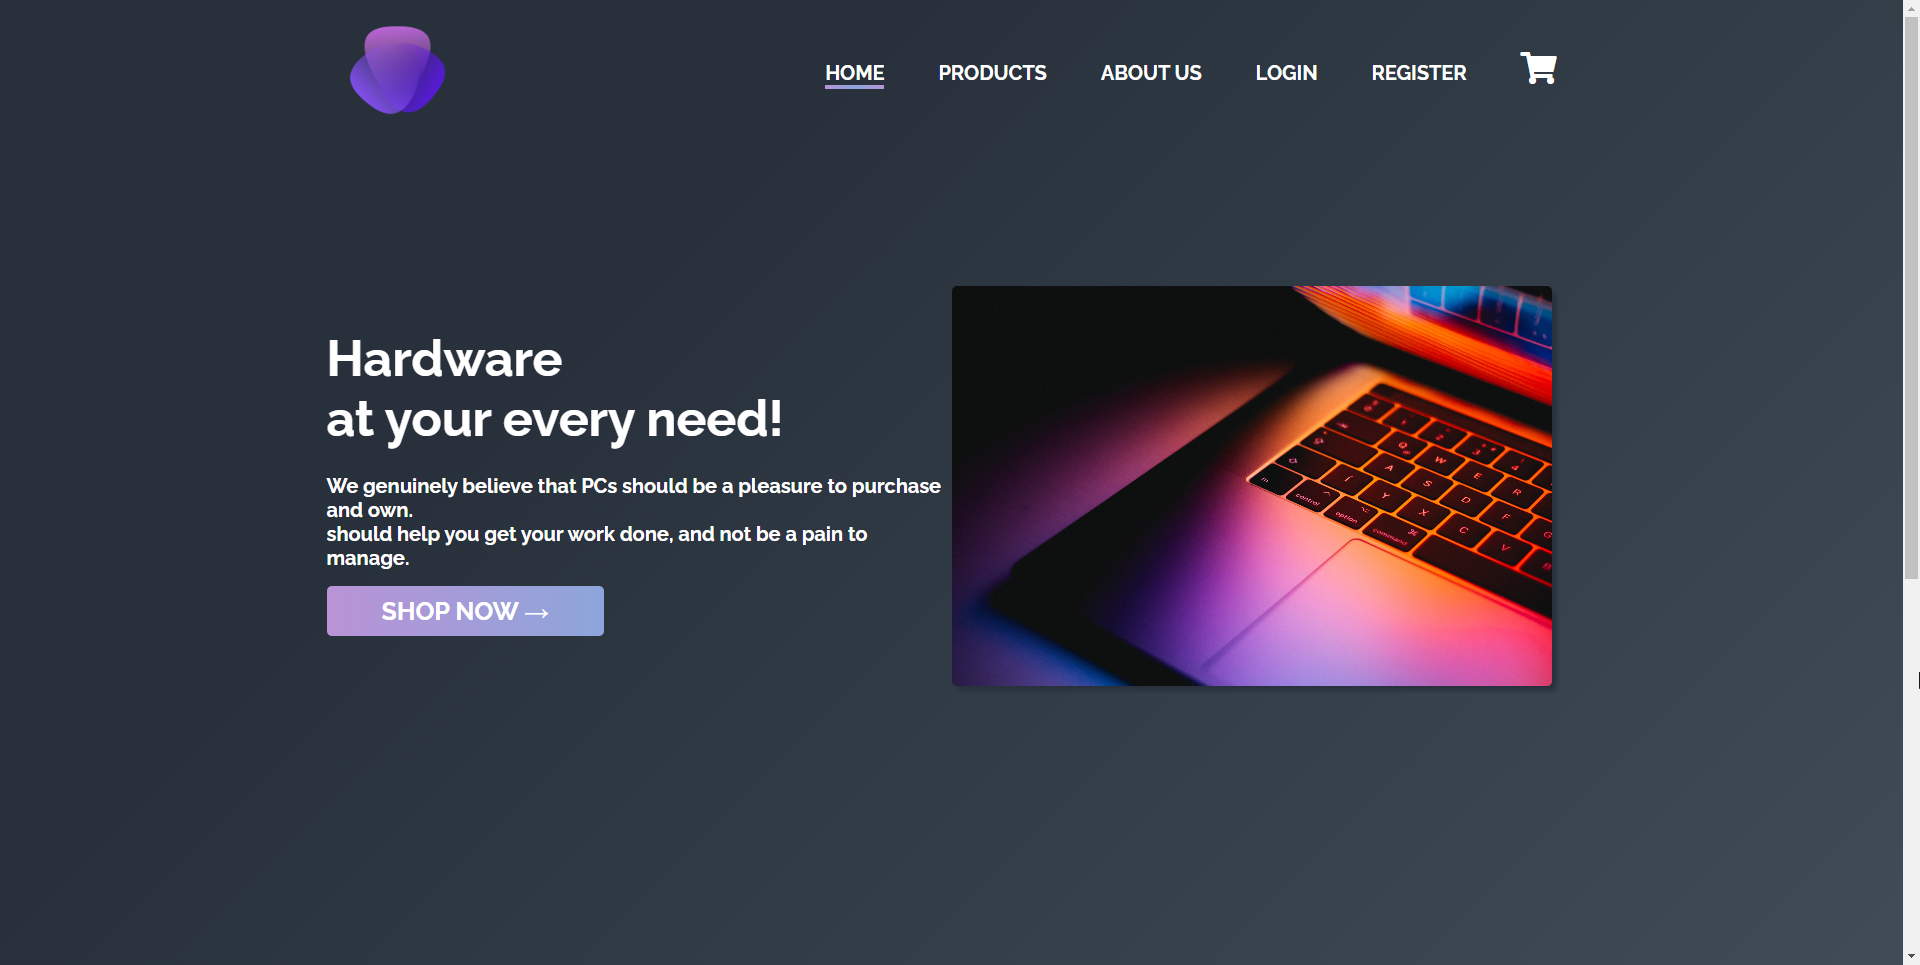
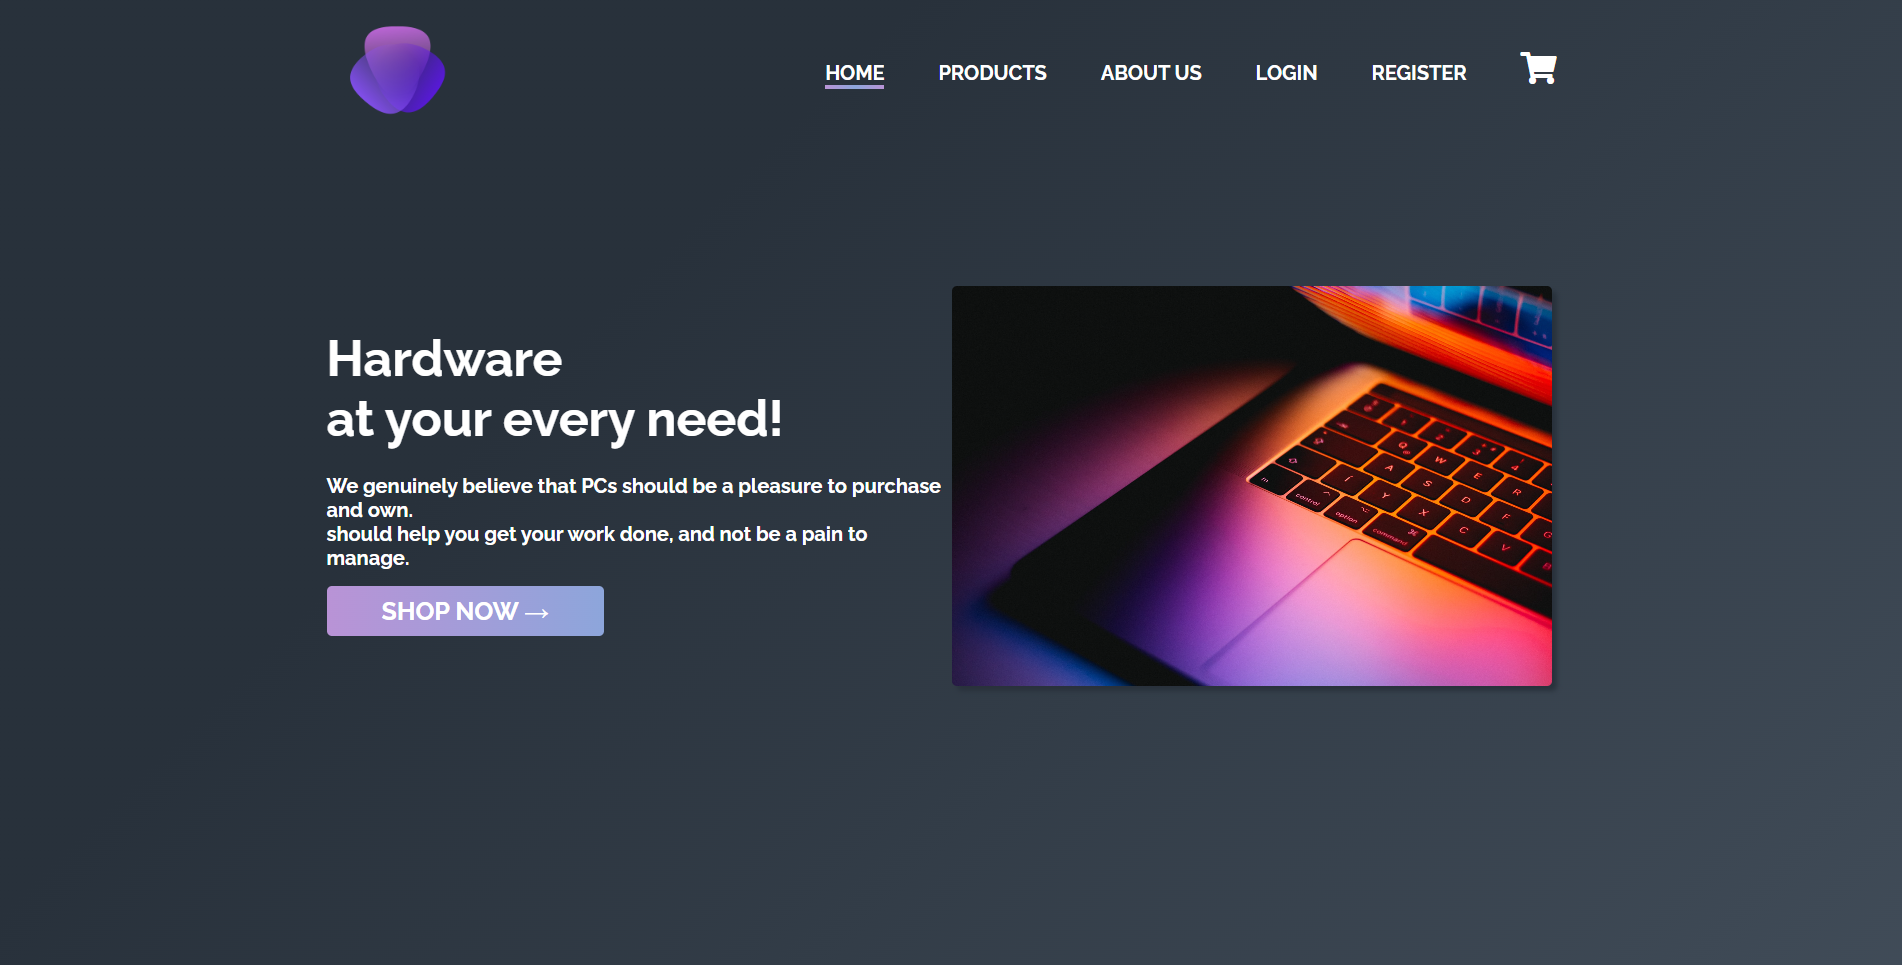
Minor ui tweaks and link fixes

diff --git a/src/App.scss b/src/App.scss
@@ -1,9 +1,9 @@
 @import url("https://fonts.googleapis.com/css?family=Barlow+Condensed:300,400,500,600,700,800,900|Barlow:300,400,500,600,700,800,900&display=swap");
 
 //Root Variables-$
-$primary-bg-color:rgb(92, 84, 112);
+$primary-bg-color:rgba(85, 77, 105);
 $secondary-bg-color:rgb(53, 47, 68);
-$primary-color:rgb(250, 240, 230);
+$primary-color:rgba(250, 240, 230);
 $secondary-color:rgb(185, 180, 199);
 $primary-font-01: "Barlow",sans-serif;
 $primary-font-02: "Barlow Condensed",sans-serif;
@@ -40,7 +40,8 @@ body {
 
 body
 {
-    background:$primary-bg-color;
+    background:rgb(252,252,252);
+    background: linear-gradient(180deg, rgba(252,252,252,1) 5%, rgba(194,181,223,1) 45%, rgba(85,77,105,1) 100%);
     font-family: $primary-font-01;
 }
 
@@ -52,10 +53,28 @@ body
     max-width: 100%;
     background-color: $primary-color;
     background-attachment: fixed;
-    box-shadow: 10px 10px $secondary-color;
+    box-shadow: 10px 10px $primary-bg-color;
     padding: 1em;
     border-radius: 5px;
+    transition: linear 200ms;
 }
+
+.card:hover
+{
+    box-shadow: 0px 10px $primary-bg-color;
+}
+
+@keyframes blink {
+    0% {
+      opacity: 1;
+    }
+    50% {
+      opacity: 0;
+    }
+    100% {
+      opacity: 1;
+    }
+  }
 //Components Based
 
 //NavBar component
@@ -68,25 +87,24 @@ nav
         justify-content: space-between;
         padding: 30px 5%;
         letter-spacing: 2px;
-        opacity: $color-opacity;
 
         .logo
         {
-            background-color: white;
             color: $primary-bg-color;
             padding: 0.5%;
             border-radius: 2px;
             font-size: 1.15em;
-            font-weight: 500;
+            font-weight: bold;
         }
-
+        
         .menu-items
         {
-            color: white;
-
+            color: $primary-bg-color;
+            font-weight: bold;
+            padding: 10px;
             .link
             {
-                margin-right: 30px;
+                margin: 0 10px;
             }
         }
     }
@@ -95,7 +113,7 @@ nav
 //Profile Component
 .profile-container
 {
-    background-image: url("https://live.staticflickr.com/8105/8652674122_a469e97354_h.jpg");
+    background-image: url("https://live.staticflickr.com/1883/30437647608_0737b666de_h.jpg");
     background-position: center;
     background-repeat: no-repeat;
     background-size: cover;
@@ -165,7 +183,6 @@ nav
             font-size: 2rem;
             padding:10px;
         }
-
     }
 }
 
@@ -272,7 +289,8 @@ nav
         display: flex;
         flex-direction: column;
         font-variant: small-caps;
-        width:60em;
+        width:clamp(20em, 60em, 80em);
+        margin: 10px;
 
         & > img
         {
@@ -300,6 +318,7 @@ nav
     }
 }
 
+
 //Footer Componenet
 footer
 {
@@ -310,7 +329,6 @@ footer
     .contact-container
     {
         display: flex;
-        width: 100%;
     }
     input,textarea
     {
@@ -339,15 +357,14 @@ footer
     {
         display: flex;
         width: 100%;
-        justify-content: space-between;
+        justify-content: space-around;
         align-items: flex-end;
 
         .social
         {
             display: flex;
-            justify-content: space-around;
+            justify-content: space-between;
             gap: 1em;
-            padding-right: 2em;
         }
         .copyright
         {
@@ -355,6 +372,12 @@ footer
         }
     }
 
+}
+@media only screen and (max-width: 480px) {
+    .contact-container
+    {
+        flex-direction: column;
+    }
 }
 #go-top
 {

diff --git a/src/components/About.tsx b/src/components/About.tsx
@@ -21,13 +21,13 @@ function About() {
                                 <feMergeNode in="shadowMatrixInner1"></feMergeNode></feMerge></filter></defs><g id="Page-1" stroke="none" stroke-width="1" fill="none" fill-rule="evenodd"><g id="Artboard-1" fill="#8B65E4"><path d="M187.785156,200 L180,232 L66,232 L58.2148437,200 L187.785156,200 Z" id="Rectangle-1" filter="url(#filter-1)"></path><path d="M349.760339,49.1234675 L375.905579,277.733833 L199.999999,277.733834 L43.9648432,143.710938 L349.760339,49.1234675 Z" id="Triangle-1" filter="url(#filter-1)"></path>
                                     <path d="M399.8936,96.1889997 L29.4623426,250.140552 L0,36.4302476 L399.8936,96.1889997 Z" id="Triangle-2" filter="url(#filter-1)"></path></g></g></svg>
                 <div className="details-container">
-                    <h1>Hey! <br /> I'm Nithin V,</h1>
+                    <h1>Hey! <br /><span className="gradient"> I'm Nithin V, </span></h1>
                     <p>Developer/Student</p>
                 </div>
                 <div className="icons-container">
-                    <a href=""><FontAwesomeIcon icon={faTwitter} /></a>
-                    <a href=""><FontAwesomeIcon icon={faLinkedin} /></a>
-                    <a href=""><FontAwesomeIcon icon={faGithub} /></a>
+                    <a href="https://twitter.com/nithin_v_"><FontAwesomeIcon icon={faTwitter} /></a>
+                    <a href="https://linkedin.com/"><FontAwesomeIcon icon={faLinkedin} /></a>
+                    <a href="https://github.com/NithinV404"><FontAwesomeIcon icon={faGithub} /></a>
                 </div>
             </div>
             <div className="tech_stack card">

diff --git a/src/components/Projects.tsx b/src/components/Projects.tsx
@@ -7,7 +7,7 @@ function Projects()
 {
     return(<div className="projects-container" id="projects">
     <h2>Projects</h2>
-    <div className="card n2r-card">
+    <a href="https://github.com/NithinV404/N2R-Technologies"><div className="card n2r-card">
         <img src={n2r} alt="img" />
         <h2>N2R Technologies</h2>
         <p>A E-Commerce Website to facilitate services to customers to buy hardware products.</p>
@@ -18,8 +18,8 @@ function Projects()
         <FontAwesomeIcon icon={faHtml5}/>
         <FontAwesomeIcon icon={faCss3}/>
         </p>
-    </div>
-    <div className="card pfa-card">
+    </div></a>
+    <a href="https://github.com/NithinV404/Peopleforanimals"><div className="card pfa-card">
         <img src={pfa} alt="img" />
         <h2>People for Animals</h2>
         <p>A animal shelter website designed to maintain a steady database and to book tickets for tour of the facility.</p>
@@ -30,7 +30,7 @@ function Projects()
         <FontAwesomeIcon icon={faHtml5}/>
         <FontAwesomeIcon icon={faCss3}/>
         </p>
-    </div>
+    </div></a>
     </div>);
 }
 export default Projects;

diff --git a/src/components/Footer.tsx b/src/components/Footer.tsx
@@ -30,6 +30,9 @@ function Footer()
 					<span> <a href="http://www.styleshout.com/"></a></span>
 				</div>
 			</div>
+            <div id="go-top">
+				<a className="smoothscroll" title="Back to Top" href="#top"><FontAwesomeIcon icon={faLongArrowUp}/></a>
+			</div>
 			<div className="col-six tab-full pull-right social">
 					<a href=""><FontAwesomeIcon icon={faTwitter} /></a>
                     <a href=""><FontAwesomeIcon icon={faLinkedin} /></a>
@@ -37,9 +40,6 @@ function Footer()
 			</div>
 			
 		</div>
-			<div id="go-top">
-				<a className="smoothscroll" title="Back to Top" href="#top"><FontAwesomeIcon icon={faLongArrowUp}/></a>
-			</div>
 	</footer>
     </>
 );
